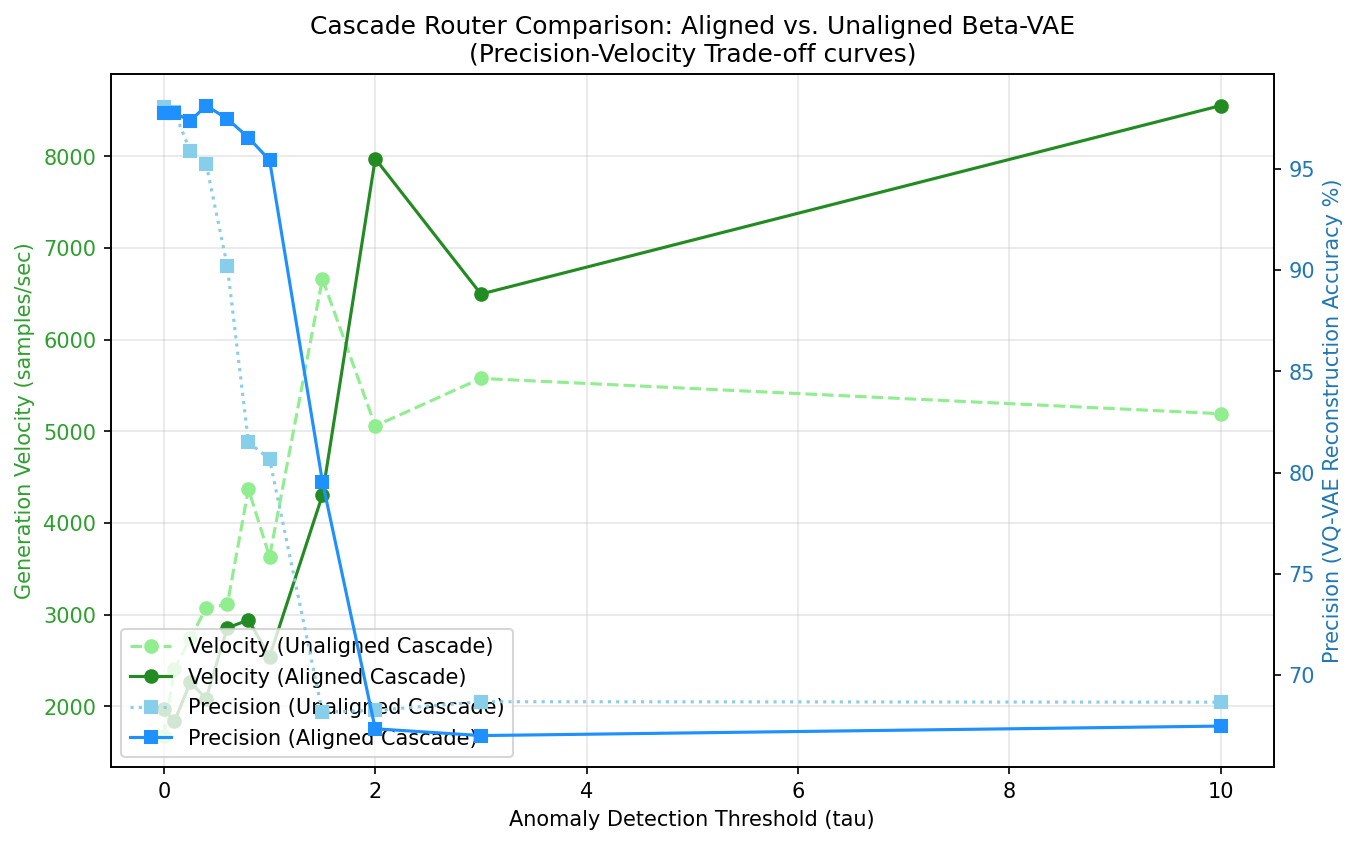
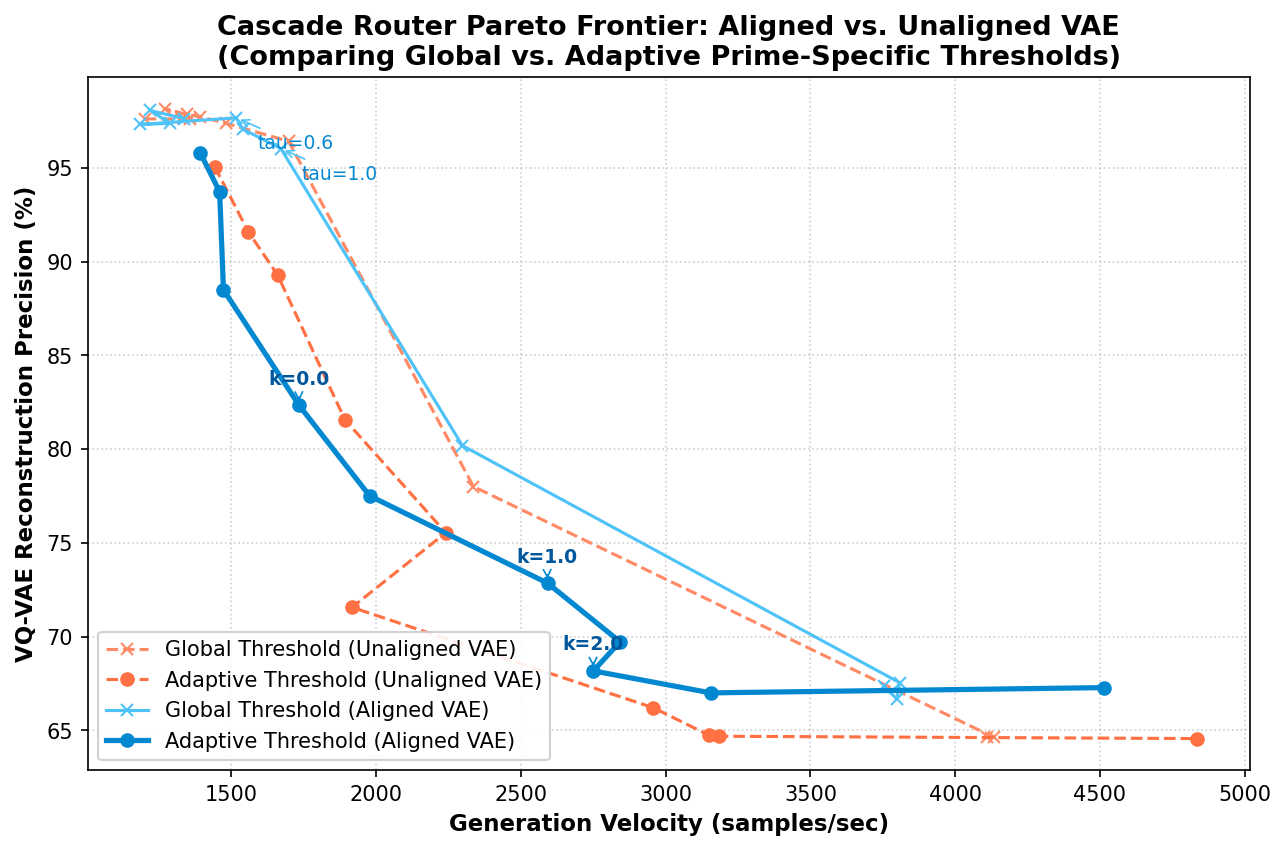
Implement adaptive prime-dependent cascading thresholds in CascadeRouter

diff --git a/evaluate_cascade.py b/evaluate_cascade.py
@@ -126,6 +126,79 @@ def benchmark_cascade(router, test_primes, num_samples, device):
         
     return thresholds, velocities, precisions, fast_rates
 
+def compute_adaptive_thresholds(beta_vae, val_loader, k=1.0, device='cpu'):
+    """
+    Compute base-specific thresholds: tau_p = mu_p + k * sigma_p
+    """
+    errors_by_prime = {}
+    beta_vae.eval()
+    with torch.no_grad():
+        for batch in val_loader:
+            digits = batch['digits'].to(device)
+            p = batch['p'].to(device)
+            logits, _, _ = beta_vae(digits, p)
+            recon_digits = torch.argmax(logits, dim=-1)
+            errs = get_reconstruction_error(beta_vae, recon_digits, p, is_vqvae=False)
+            for i in range(p.shape[0]):
+                prime = p[i].item()
+                if prime not in errors_by_prime:
+                    errors_by_prime[prime] = []
+                errors_by_prime[prime].append(errs[i].item())
+                
+    thresholds_dict = {}
+    for prime, err_list in errors_by_prime.items():
+        arr = np.array(err_list)
+        mu = np.mean(arr)
+        std = np.std(arr)
+        thresholds_dict[prime] = float(mu + k * std)
+    return thresholds_dict
+
+def benchmark_adaptive_cascade(router, val_loader, test_primes, num_samples, device):
+    """
+    Evaluates CascadeRouter using adaptive thresholds for different multipliers k.
+    """
+    # k multipliers to evaluate: from negative (strict, fallback) to positive (permissive, fast)
+    k_vals = [-1.5, -1.0, -0.5, 0.0, 0.5, 1.0, 1.5, 2.0, 3.0, 5.0]
+    
+    velocities = []
+    precisions = []
+    fast_rates = []
+    
+    # Prepare batch of primes for generation
+    p_batch = []
+    for p in test_primes:
+        p_batch.extend([p] * (num_samples // len(test_primes)))
+    p_tensor = torch.tensor(p_batch, dtype=torch.long, device=device)
+    B = p_tensor.shape[0]
+    
+    print(f"\n--- Benchmarking Adaptive Cascade Router (k std dev) on {B} generations ---")
+    
+    for k in k_vals:
+        # Compute adaptive thresholds for this k
+        thresholds_dict = compute_adaptive_thresholds(router.beta_vae, val_loader, k=k, device=device)
+        
+        # Generate with Cascade
+        final_digits, routed_paths, beta_recon_err, elapsed = router.generate_cascade(p_tensor, threshold_tau=thresholds_dict, device=device)
+        
+        # Velocity
+        velocity = B / elapsed
+        velocities.append(velocity)
+        
+        # Fast Path Rate
+        fast_rate = sum(routed_paths) / B
+        fast_rates.append(fast_rate)
+        
+        # Precision
+        with torch.no_grad():
+            recon_logits, _, _ = router.vq_vae(final_digits, p_tensor)
+            recon_digits = torch.argmax(recon_logits, dim=-1)
+            precision = (recon_digits == final_digits).float().mean().item()
+            precisions.append(precision)
+            
+        print(f"Multiplier k: {k:5.1f} | Fast Path Rate: {fast_rate*100:5.1f}% | Velocity: {velocity:8.1f} smpl/s | VQ-VAE Recon Precision: {precision*100:6.2f}%")
+        
+    return k_vals, velocities, precisions, fast_rates
+
 def main():
     parser = argparse.ArgumentParser()
     parser.add_argument('--primes', type=int, nargs='+', default=[2, 3, 5, 7, 11])
@@ -225,42 +298,69 @@ def main():
     print(f"Saved reconstruction error distribution plot to {error_plot_path}")
     
     # 6. Benchmark Cascade Routers
-    print("\nBenchmarking Unaligned Cascade...")
+    print("\nBenchmarking Unaligned Cascade (Global Threshold)...")
     thresholds, vels_un, precs_un, rates_un = benchmark_cascade(router_unaligned, args.primes, num_samples=200, device=device)
     
+    print("\nBenchmarking Unaligned Cascade (Adaptive Threshold)...")
+    k_vals, vels_adap_un, precs_adap_un, rates_adap_un = benchmark_adaptive_cascade(
+        router_unaligned, val_loader_full, args.primes, num_samples=200, device=device
+    )
+    
+    vels_al, precs_al = None, None
+    vels_adap_al, precs_adap_al = None, None
     if router_aligned is not None:
-        print("\nBenchmarking Aligned Cascade...")
+        print("\nBenchmarking Aligned Cascade (Global Threshold)...")
         _, vels_al, precs_al, rates_al = benchmark_cascade(router_aligned, args.primes, num_samples=200, device=device)
+        
+        print("\nBenchmarking Aligned Cascade (Adaptive Threshold)...")
+        _, vels_adap_al, precs_adap_al, rates_adap_al = benchmark_adaptive_cascade(
+            router_aligned, val_loader_full, args.primes, num_samples=200, device=device
+        )
+        
+    # Plot Cascade Trade-off Curves Comparison (Pareto Frontier Style: Precision vs Velocity)
+    plt.figure(figsize=(10, 6), dpi=150)
     
-    # Plot Cascade Trade-off Curves Comparison
-    fig, ax1 = plt.subplots(figsize=(10, 6), dpi=150)
+    # Unaligned VAE curves
+    plt.plot(vels_un, [p * 100 for p in precs_un], marker='x', linestyle='--', color='#ff8a65', label='Global Threshold (Unaligned VAE)')
+    plt.plot(vels_adap_un, [p * 100 for p in precs_adap_un], marker='o', linestyle='--', color='#ff7043', label='Adaptive Threshold (Unaligned VAE)')
     
-    color = 'tab:green'
-    ax1.set_xlabel('Anomaly Detection Threshold (tau)')
-    ax1.set_ylabel('Generation Velocity (samples/sec)', color=color)
-    line1 = ax1.plot(thresholds, vels_un, marker='o', linestyle='--', color='lightgreen', label='Velocity (Unaligned Cascade)')
-    lines = line1
+    # Aligned VAE curves
     if router_aligned is not None:
-        line1_al = ax1.plot(thresholds, vels_al, marker='o', color='forestgreen', label='Velocity (Aligned Cascade)')
-        lines += line1_al
-    ax1.tick_params(axis='y', labelcolor=color)
-    ax1.grid(True, alpha=0.3)
+        plt.plot(vels_al, [p * 100 for p in precs_al], marker='x', color='#4fc3f7', label='Global Threshold (Aligned VAE)')
+        plt.plot(vels_adap_al, [p * 100 for p in precs_adap_al], marker='o', color='#0288d1', linewidth=2.5, label='Adaptive Threshold (Aligned VAE)')
+        
+        # Annotate a few points on Aligned Adaptive curve
+        # Choose k = 0.0, 1.0, 2.0
+        for target_k, label in [(0.0, 'k=0.0'), (1.0, 'k=1.0'), (2.0, 'k=2.0')]:
+            if target_k in k_vals:
+                idx = k_vals.index(target_k)
+                x = vels_adap_al[idx]
+                y = precs_adap_al[idx] * 100
+                plt.annotate(
+                    label, (x, y), textcoords="offset points", xytext=(-15, 10),
+                    arrowprops=dict(arrowstyle="->", color='#0288d1', lw=0.8),
+                    fontsize=9, fontweight='bold', color='#01579b'
+                )
+                
+        # Annotate points on Aligned Global curve
+        for target_tau, label in [(0.6, 'tau=0.6'), (1.0, 'tau=1.0')]:
+            if target_tau in thresholds:
+                idx = thresholds.index(target_tau)
+                x = vels_al[idx]
+                y = precs_al[idx] * 100
+                plt.annotate(
+                    label, (x, y), textcoords="offset points", xytext=(10, -15),
+                    arrowprops=dict(arrowstyle="->", color='#4fc3f7', lw=0.8),
+                    fontsize=9, color='#0288d1'
+                )
+                
+    plt.xlabel('Generation Velocity (samples/sec)', fontsize=11, fontweight='bold')
+    plt.ylabel('VQ-VAE Reconstruction Precision (%)', fontsize=11, fontweight='bold')
+    plt.title('Cascade Router Pareto Frontier: Aligned vs. Unaligned VAE\n(Comparing Global vs. Adaptive Prime-Specific Thresholds)', fontsize=13, fontweight='bold')
+    plt.grid(True, linestyle=':', alpha=0.6)
+    plt.legend(loc='lower left', framealpha=0.9)
     
-    ax2 = ax1.twinx()  
-    color = 'tab:blue'
-    ax2.set_ylabel('Precision (VQ-VAE Reconstruction Accuracy %)', color=color)
-    line2 = ax2.plot(thresholds, [p * 100 for p in precs_un], marker='s', linestyle=':', color='skyblue', label='Precision (Unaligned Cascade)')
-    lines += line2
-    if router_aligned is not None:
-        line2_al = ax2.plot(thresholds, [p * 100 for p in precs_al], marker='s', color='dodgerblue', label='Precision (Aligned Cascade)')
-        lines += line2_al
-    ax2.tick_params(axis='y', labelcolor=color)
-    
-    # Add legends
-    labels = [l.get_label() for l in lines]
-    ax1.legend(lines, labels, loc='lower left')
-    
-    plt.title('Cascade Router Comparison: Aligned vs. Unaligned Beta-VAE\n(Precision-Velocity Trade-off curves)')
+    # Tight layout and save
     comparison_plot_path = './plots/cascade_tradeoff_comparison.png'
     plt.savefig(comparison_plot_path, bbox_inches='tight')
     plt.close()

diff --git a/anomaly_detector.py b/anomaly_detector.py
@@ -38,7 +38,7 @@ class CascadeRouter:
         If Beta-VAE's self-reconstruction error is below threshold_tau, it uses the Beta-VAE (fast).
         Otherwise, it falls back to VQ-VAE + Prior (slow but precise).
         p: [B] tensor of primes
-        threshold_tau: float value for routing
+        threshold_tau: float or dict mapping prime values to threshold floats
         """
         B = p.shape[0]
         self.beta_vae.eval()
@@ -53,8 +53,13 @@ class CascadeRouter:
         # 2. Anomaly Detection: compute Beta-VAE self-reconstruction error
         beta_recon_err = get_reconstruction_error(self.beta_vae, x_beta, p, is_vqvae=False) # [B]
         
-        # Determine routing masks
-        fast_mask = beta_recon_err < threshold_tau # [B] (boolean mask)
+        # Determine routing masks (global threshold or dictionary of base-specific thresholds)
+        if isinstance(threshold_tau, dict):
+            thresh_val = torch.tensor([threshold_tau[val.item()] for val in p], device=p.device)
+        else:
+            thresh_val = torch.full_like(p, threshold_tau, dtype=torch.float)
+            
+        fast_mask = beta_recon_err < thresh_val # [B] (boolean mask)
         fallback_indices = (~fast_mask).nonzero(as_tuple=True)[0]
         num_fallback = fallback_indices.shape[0]
         